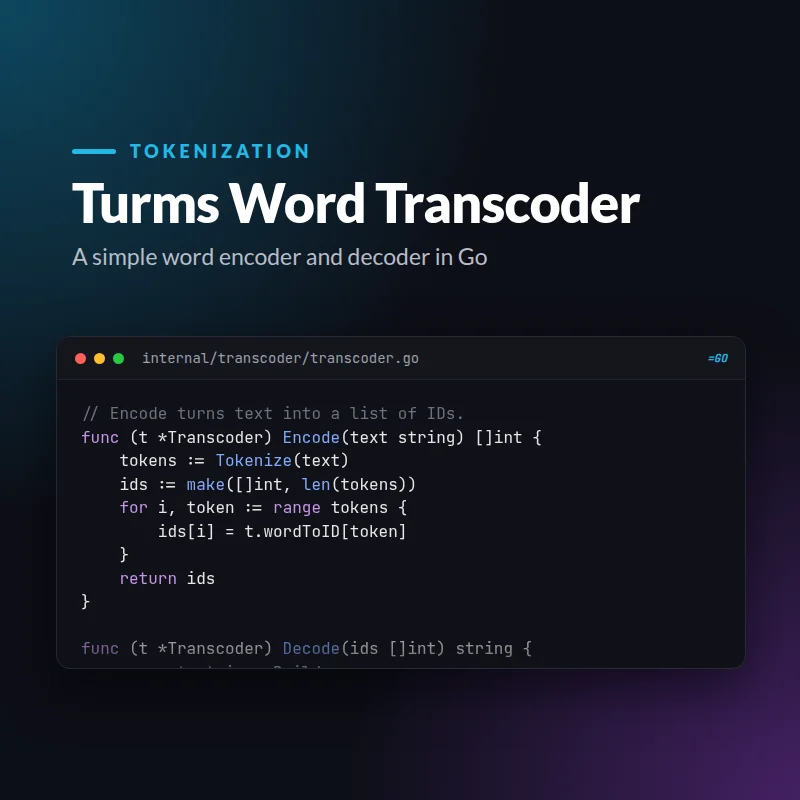
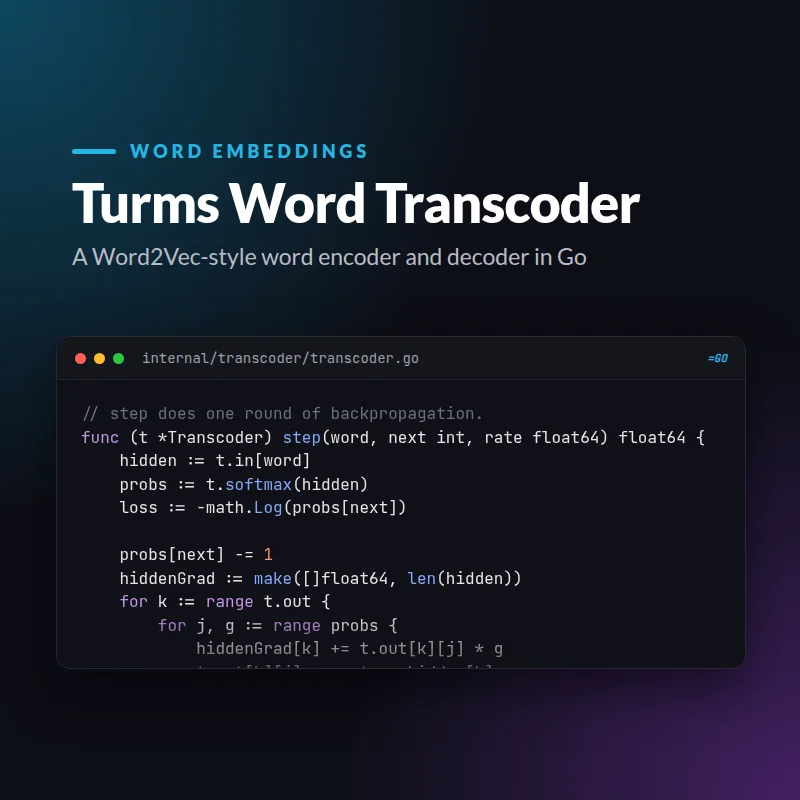
chore: describe Turms as a word embedding project
The project now trains word embeddings like Word2Vec, so the
description and thumbnail show that instead of the word ID lookup.

diff --git a/src/data/projects.jsx b/src/data/projects.jsx
@@ -11,7 +11,7 @@ export const projects = [
 	{
 		title: 'Turms Word Transcoder',
 		description: `
-				Turms Word Transcoder is a simple word encoder and decoder that I wrote in Go to understand how text is turned into numbers. It splits text into words, builds a vocabulary from a corpus and translates text into word IDs and back again, replacing unknown words with a special token. Its example data comes from Etruscan sources in English translation: the Liber Linteus, the longest surviving Etruscan text, and the myth of the child prophet Tages.
+				Turms Word Transcoder is a small word encoder and decoder that I wrote in Go to understand how word embeddings like Word2Vec work. A tiny neural network learns to predict the next word, and in doing so learns a set of numbers for every word, so that words used in the same way get similar numbers. It is trained on Etruscan and Roman religious texts in English, such as the Liber Linteus, the longest surviving Etruscan text.
 			`,
 		thumbnail: '/assets/images/projects/turms-word-transcoder.webp',
 		githubUrl: 'https://github.com/thebetar/turms-word-transcoder',
